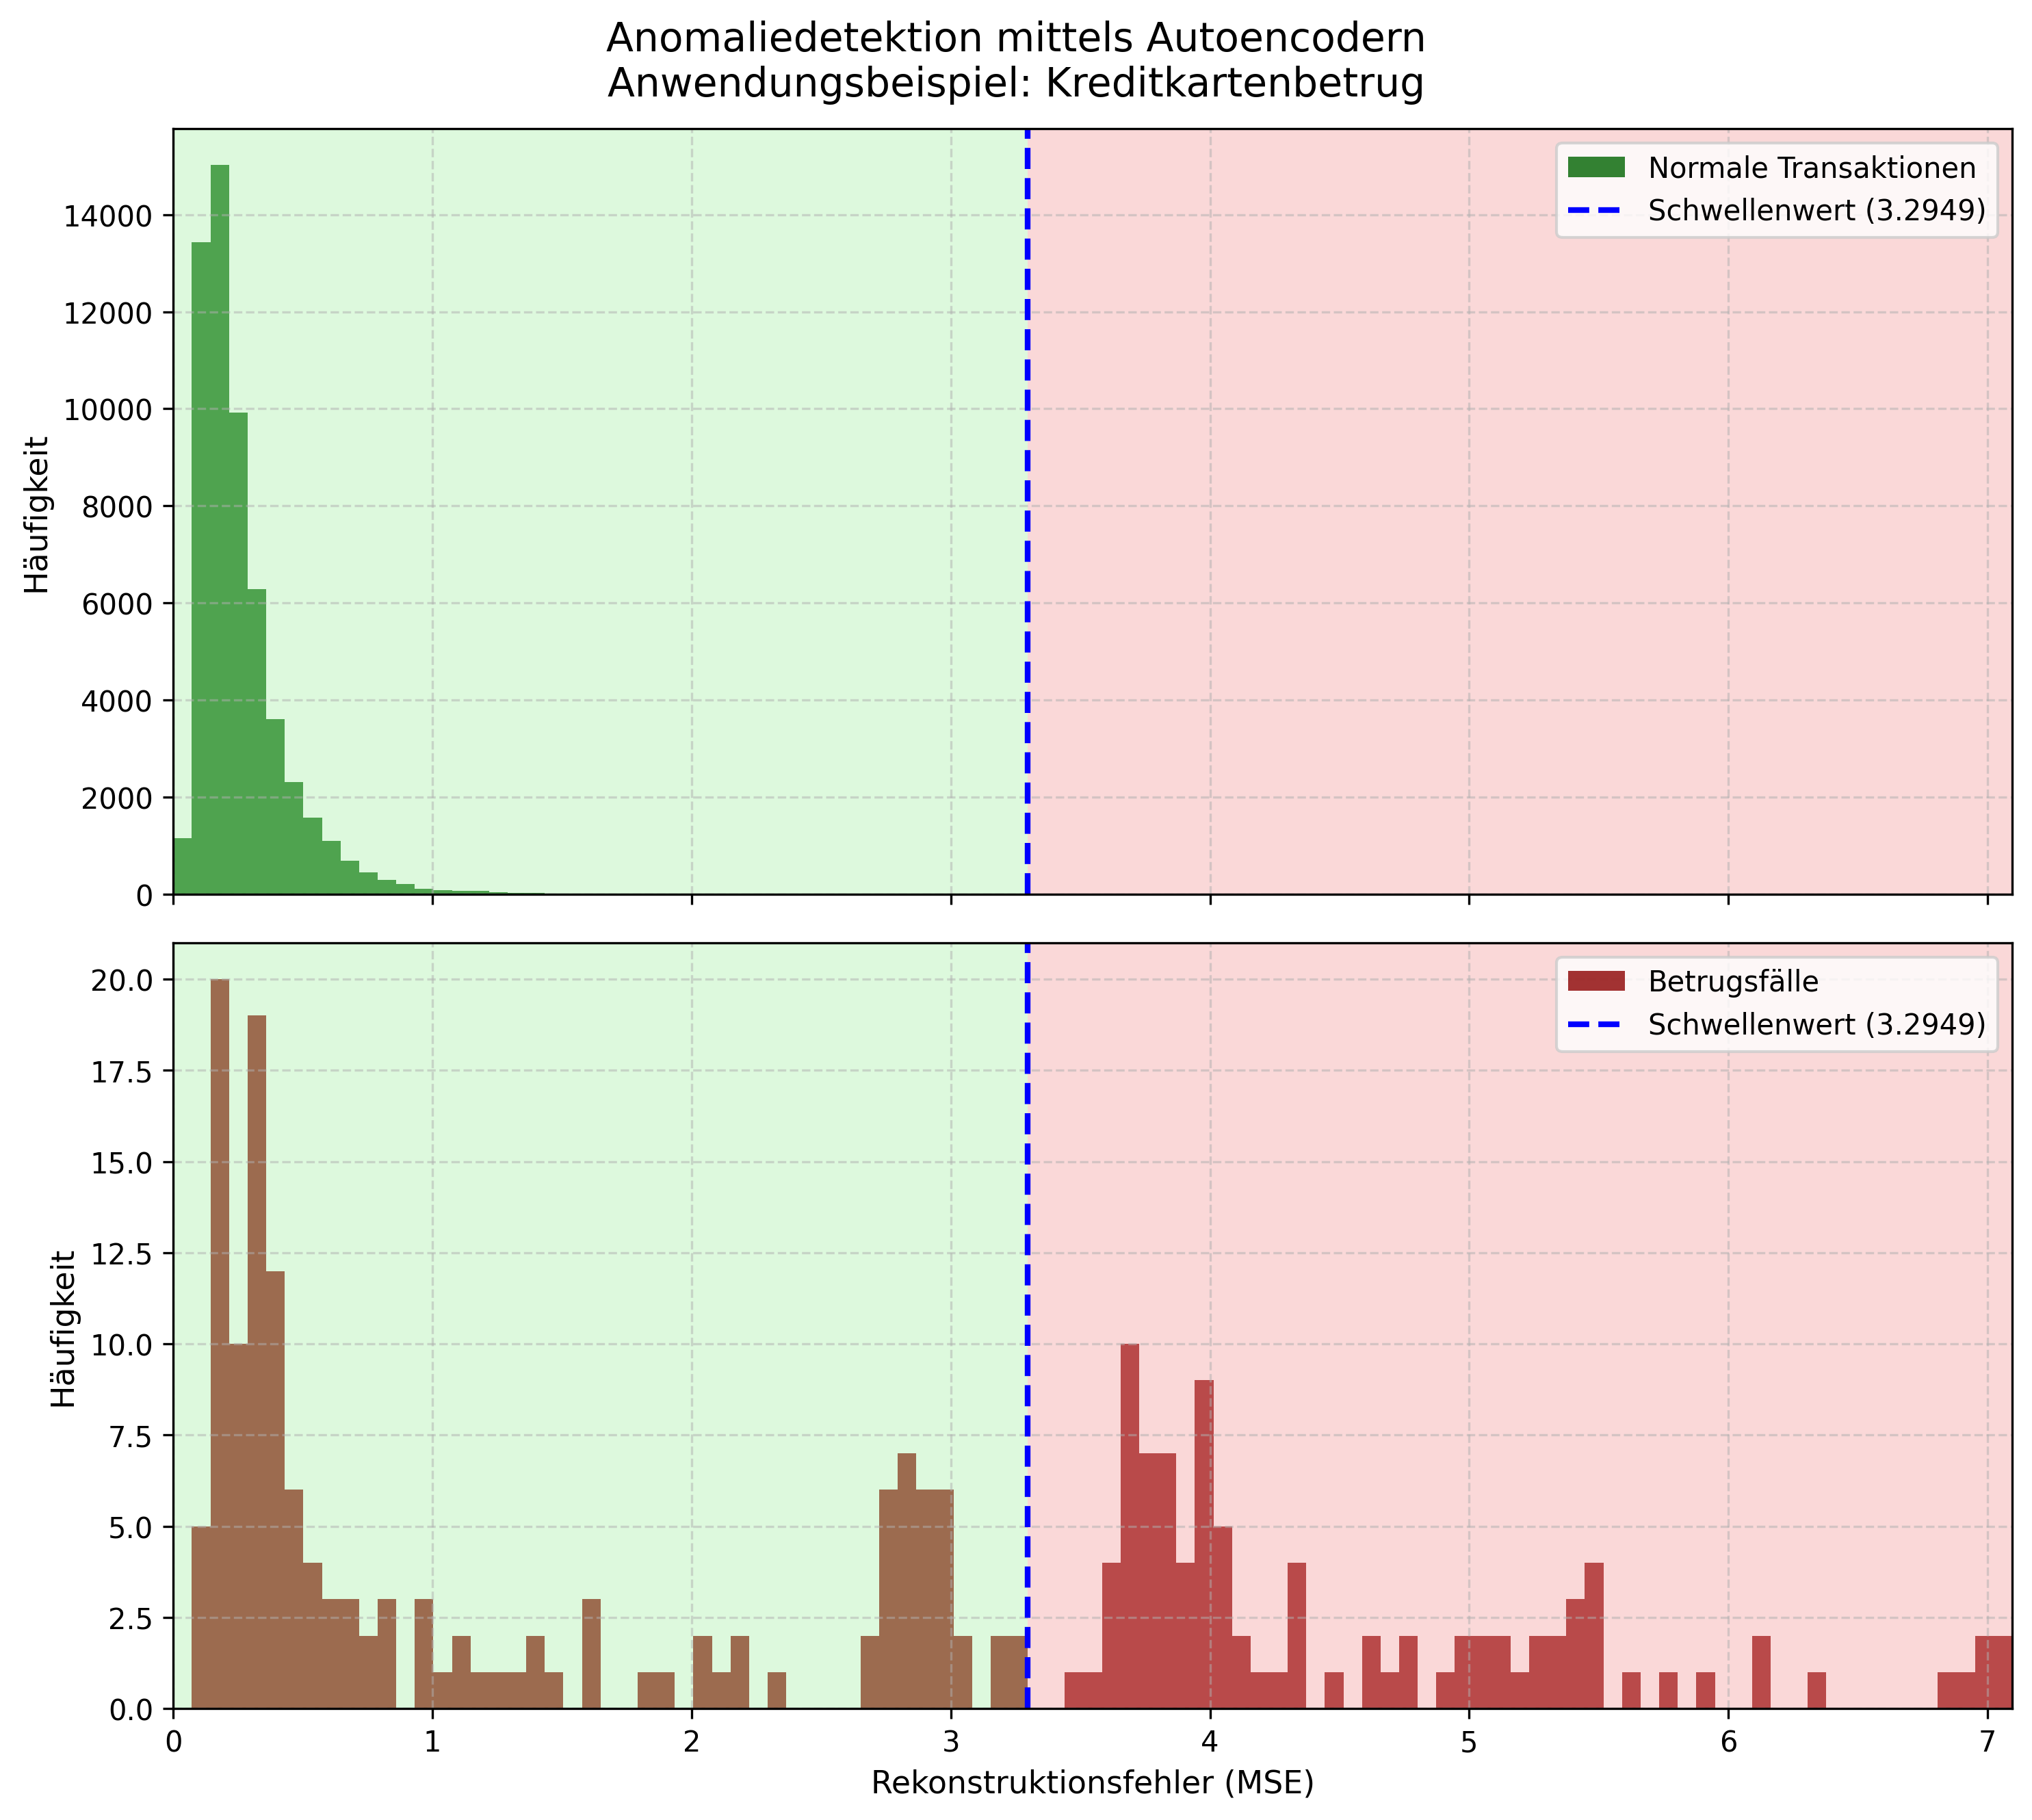
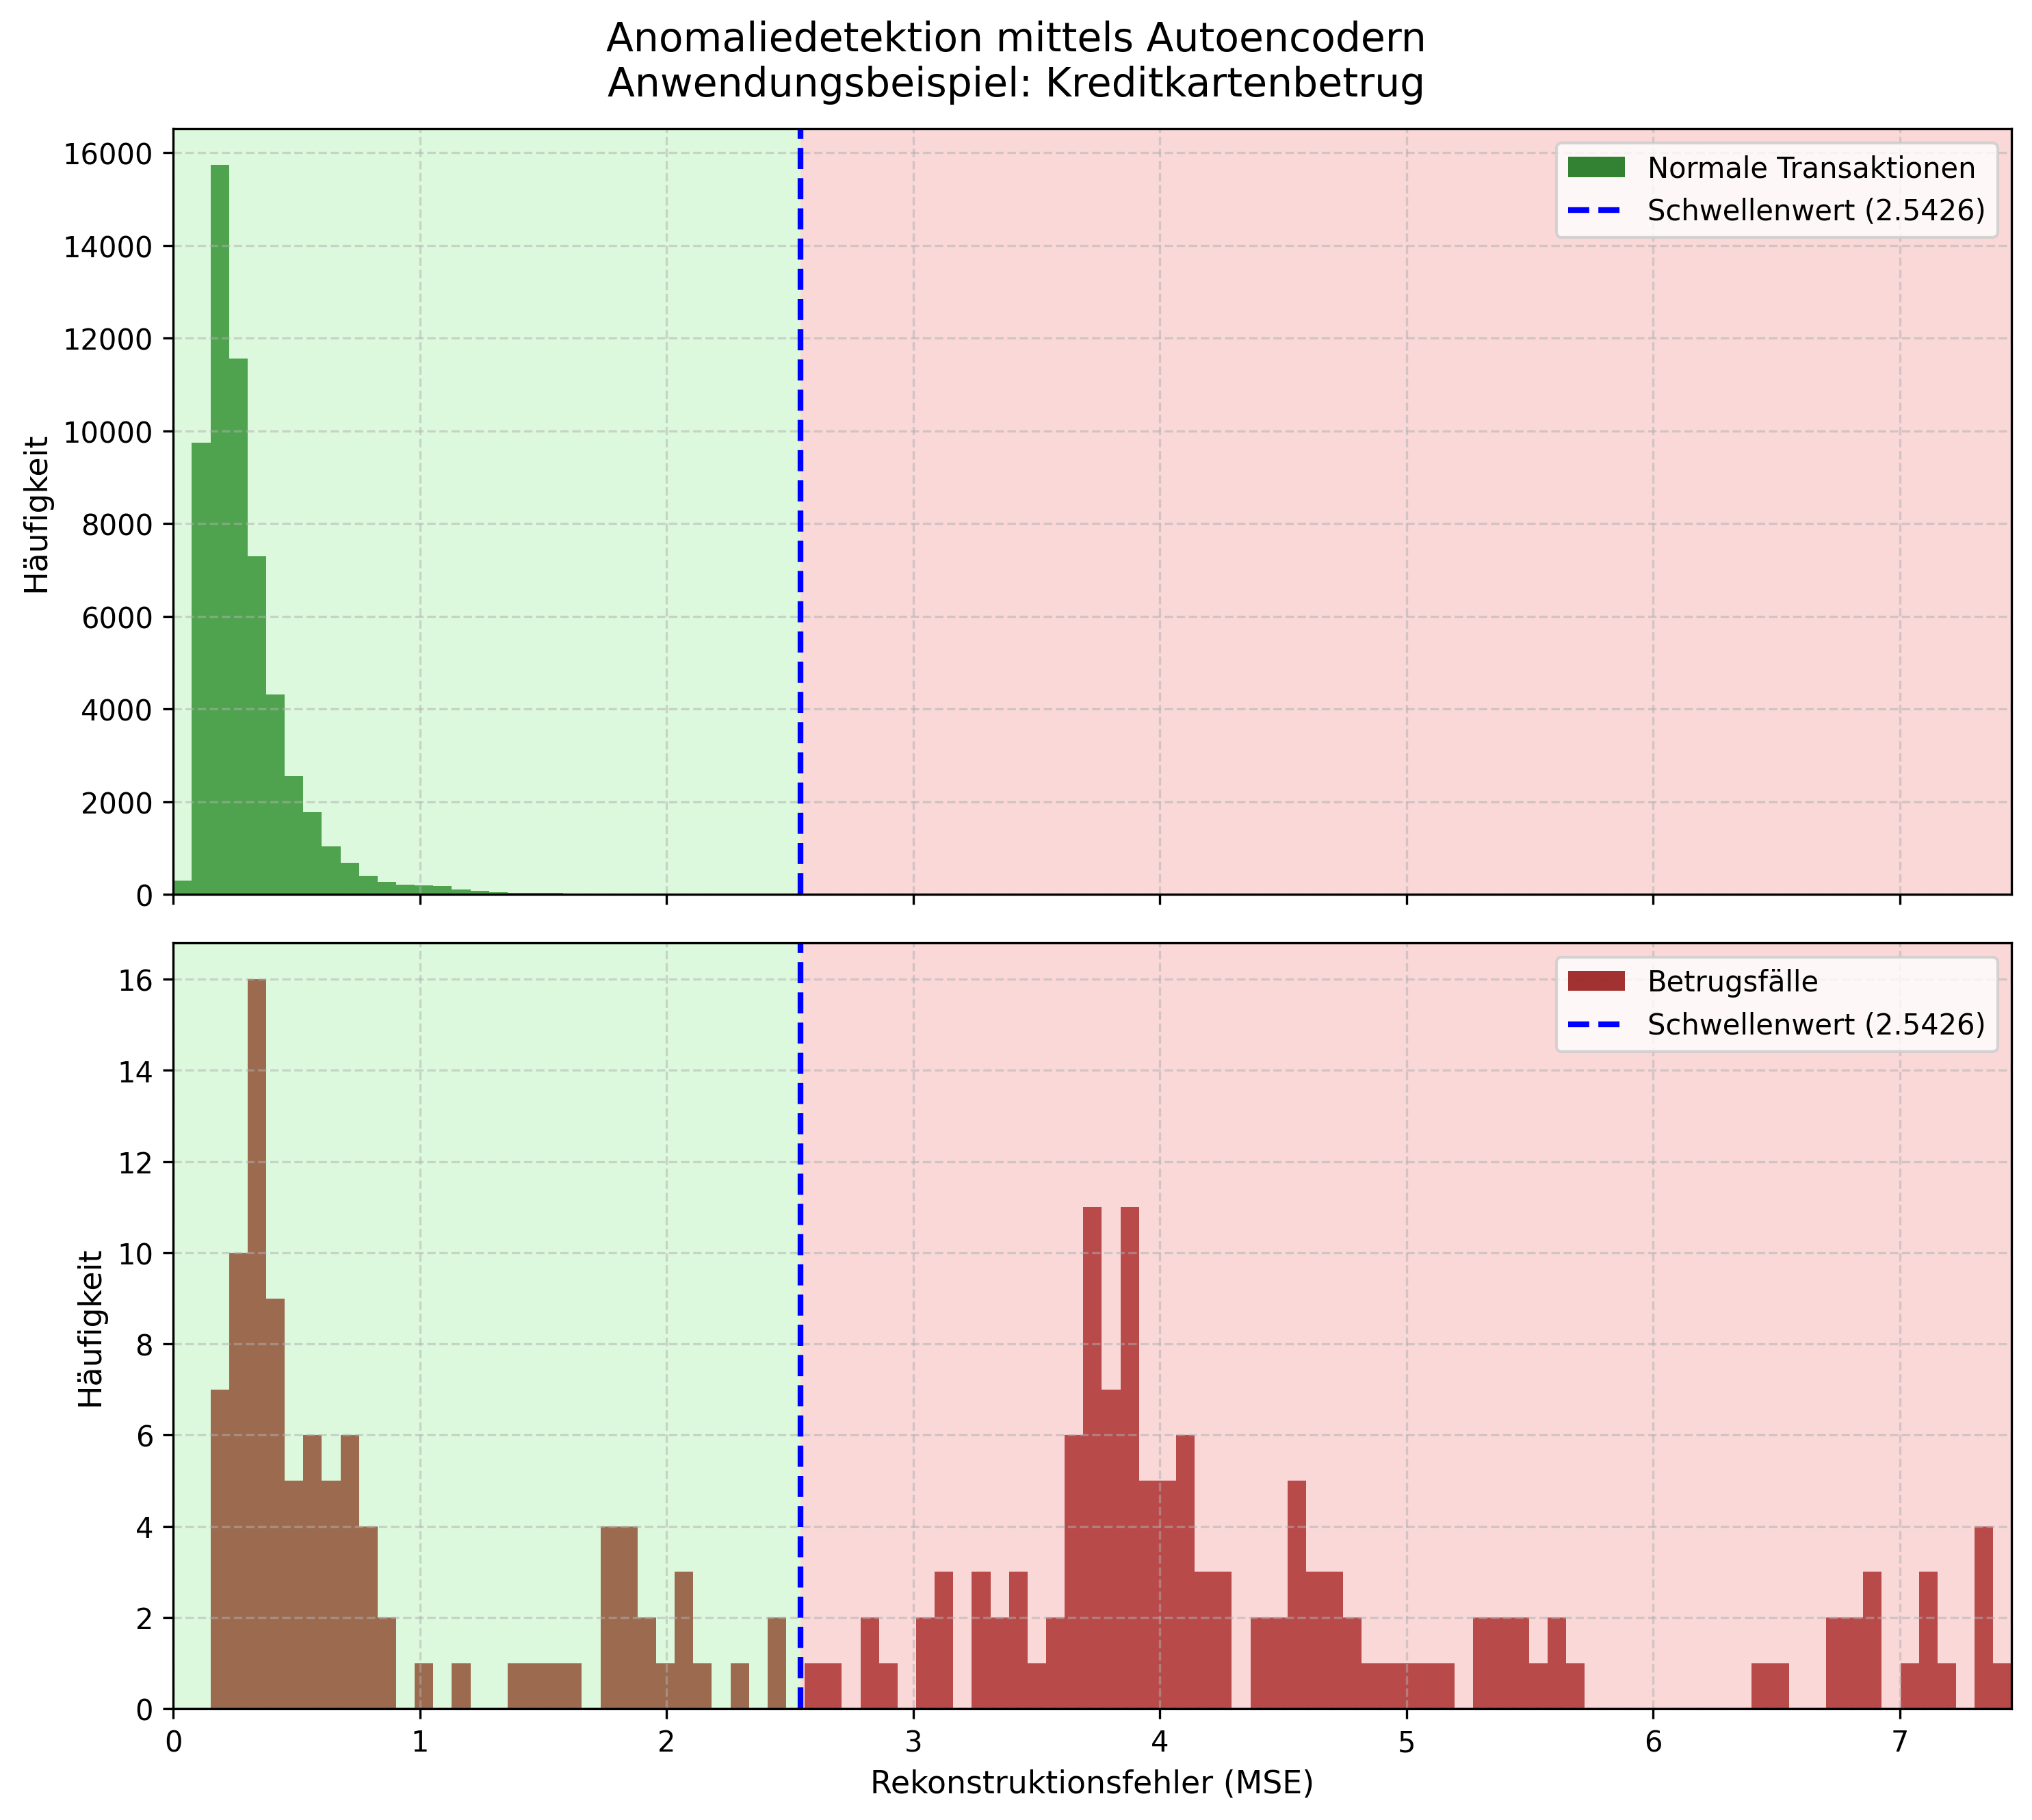
fix: added Hour feature and optimized threshold for production

diff --git a/main.py b/main.py
@@ -9,48 +9,42 @@ app = FastAPI(title="Kreditkarten-Betrugserkennung API")
 
 print("Lade Modell und Scaler...")
 model = tf.keras.models.load_model('autoencoder_model.keras')
-scaler = joblib.load('amount_scaler.save')
+amount_scaler = joblib.load('amount_scaler.save')
+hour_scaler = joblib.load('hour_scaler.save')  # Den neuen Scaler laden!
 
-THRESHOLD = 3.2949
+THRESHOLD = 3000.0
 
 
 @app.post("/predict")
 async def detect_anomalies(file: UploadFile = File(...)):
     try:
-        # 1. Datei einlesen
         contents = await file.read()
         df = pd.read_csv(io.StringIO(contents.decode('utf-8')))
 
-        # 2. Unnötige Spalten entfernen (genau wie im Training!)
-        # Wir müssen sicherstellen, dass die Spalten 'Time' und 'Class'
-        # (falls sie in der Upload-Datei existieren) NICHT an das Modell geschickt werden.
-        columns_to_drop = []
+        # --- NEU: Das gleiche Feature Engineering wie im Training! ---
         if 'Time' in df.columns:
-            columns_to_drop.append('Time')
-        if 'Class' in df.columns:
-            columns_to_drop.append('Class')
+            df['Hour'] = (df['Time'] / 3600) % 24
+            df = df.drop(['Time'], axis=1)
 
-        if columns_to_drop:
-            df = df.drop(columns_to_drop, axis=1)
+        if 'Class' in df.columns:
+            df = df.drop(['Class'], axis=1)
 
         df_original = df.copy()
 
-        # 3. Skalierung
-        df['Amount'] = scaler.transform(df['Amount'].values.reshape(-1, 1))
+        # --- NEU: Beide Scaler anwenden ---
+        df['Amount'] = amount_scaler.transform(df['Amount'].values.reshape(-1, 1))
+        df['Hour'] = hour_scaler.transform(df['Hour'].values.reshape(-1, 1))
 
-        # 4. Vorhersage
         predictions = model.predict(df)
         mse = np.mean(np.power(df - predictions, 2), axis=1)
 
-        # 5. Auswertung
         df_original['MSE'] = mse
         df_original['Is_Fraud'] = mse > THRESHOLD
 
-        # 6. Ergebnisse (Wir wandeln die Numpy-Booleans um, da JSON sonst oft crasht)
         anomalies = df_original[df_original['Is_Fraud']].copy()
 
-        # Sicherstellen, dass das Dictionary sauber formatiert wird
         fraud_list = anomalies.head(10).to_dict(orient="records")
+
         return {
             "status": "Erfolgreich analysiert",
             "total_transactions_checked": int(len(df_original)),
@@ -59,5 +53,4 @@ async def detect_anomalies(file: UploadFile = File(...)):
         }
 
     except Exception as e:
-        # Falls es wieder crasht, spuckt die Website dir jetzt genau aus, WARUM!
         raise HTTPException(status_code=500, detail=str(e))

diff --git a/create_test_data.py b/create_test_data.py
@@ -1,0 +1,15 @@
+import pandas as pd
+
+print("Lade große Datenbank...")
+df = pd.read_csv('creditcard.csv')
+
+# Wir schnappen uns 50 echte Betrugsfälle und 1000 normale Transaktionen
+frauds = df[df['Class'] == 1].sample(50, random_state=99)
+normals = df[df['Class'] == 0].sample(1000, random_state=99)
+
+# Wir kleben beides zusammen und mischen es gut durch
+test_data = pd.concat([frauds, normals]).sample(frac=1)
+
+# Wir speichern das als neue, winzige Datei ab
+test_data.to_csv('api_test_daten.csv', index=False)
+print("Fertig! Die Datei 'api_test_daten.csv' wurde erstellt.")

diff --git a/train_model.py b/train_model.py
@@ -10,6 +10,7 @@ from sklearn.model_selection import train_test_split
 from sklearn.metrics import matthews_corrcoef, accuracy_score
 import matplotlib.pyplot as plt
 import joblib
+from tensorflow.keras.layers import Input, Dense, Dropout
 
 # --- 1. REPRODUZIERBARKEIT ---
 np.random.seed(42)
@@ -19,10 +20,14 @@ random.seed(42)
 # --- 2. DATEN VORBEREITEN ---
 print("Lade Daten...")
 df = pd.read_csv('creditcard.csv')
+
+# NEU: Feature Engineering - Sekunden in Tagesstunde umwandeln
+df['Hour'] = (df['Time'] / 3600) % 24
 df = df.drop(['Time'], axis=1)
 
-# NUR Amount skalieren – V1-V28 sind bereits skaliert!
+# Amount UND die neue Hour-Spalte skalieren
 df['Amount'] = StandardScaler().fit_transform(df['Amount'].values.reshape(-1, 1))
+df['Hour'] = StandardScaler().fit_transform(df['Hour'].values.reshape(-1, 1))
 
 normal_data = df[df['Class'] == 0]
 fraud_data  = df[df['Class'] == 1]
@@ -36,6 +41,11 @@ train_data, val_normal = train_test_split(
 print(f"Trainingsdaten (Normal):    {len(train_data)}")
 print(f"Validierungsdaten (Normal): {len(val_normal)}")
 print(f"Betrugsfälle (Test):        {len(fraud_data)}")
+
+# --- 3. AUTOENCODER BAUEN ---
+input_dim = train_data.shape[1]
+
+input_layer  = Input(shape=(input_dim,))
 
 # --- 3. AUTOENCODER BAUEN ---
 input_dim = train_data.shape[1]
@@ -126,4 +136,5 @@ print("\nGrafik gespeichert als 'bild2.png'")
 plt.show()
 
 joblib.dump(StandardScaler().fit(df['Amount'].values.reshape(-1, 1)), 'amount_scaler.save')
+joblib.dump(StandardScaler().fit(df['Hour'].values.reshape(-1, 1)), 'hour_scaler.save')
 autoencoder.save('autoencoder_model.keras')